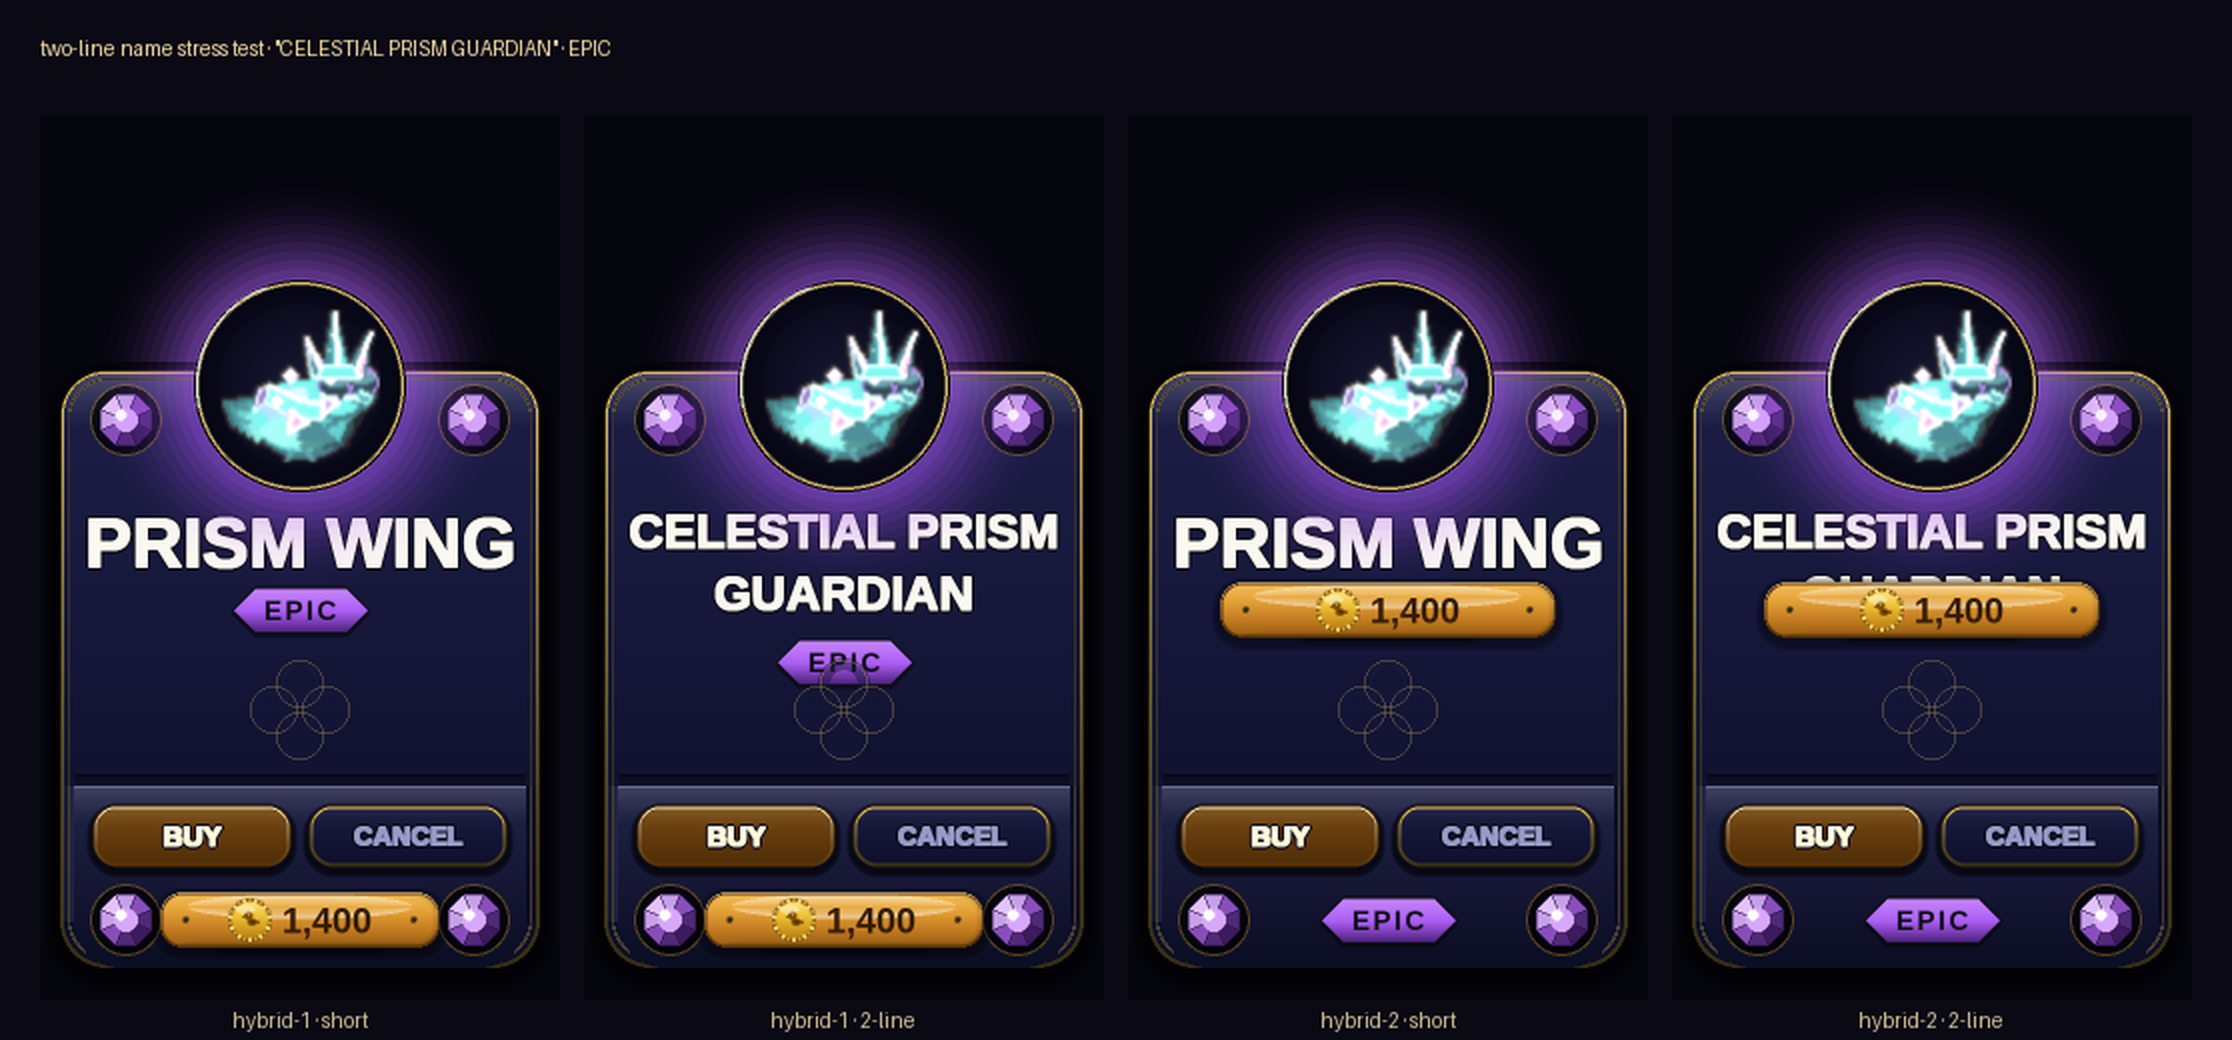
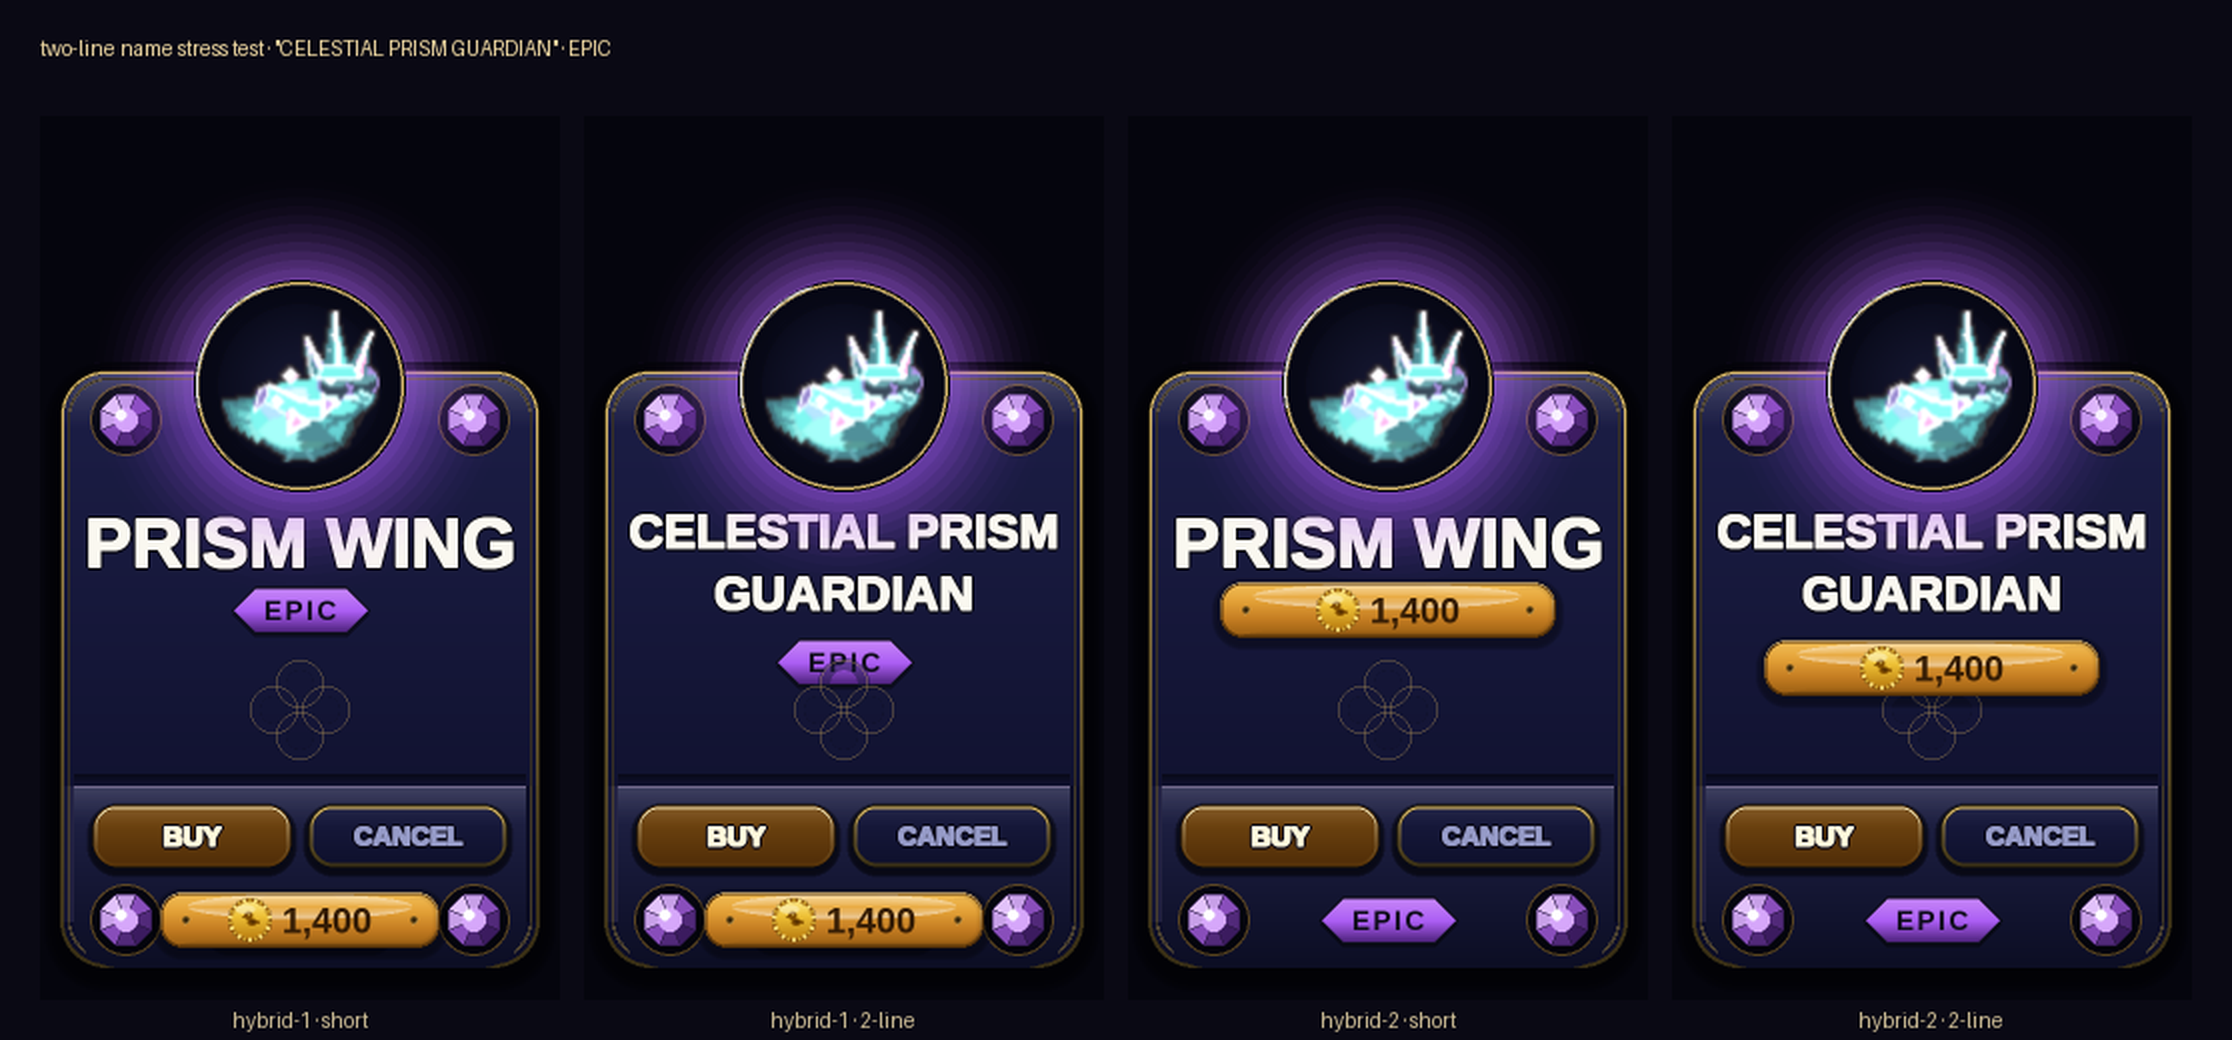
hybrid-2: push price bar below wrapped two-line names
The bullion bar now mirrors the banner's push-down maths when the item
name wraps, sliding below the second line (covering the quatrefoil is
accepted). The base draw's own chip is suppressed via exec-patch so it
no longer peeks out at 247 when the bar moves.

Claude-Session: https://claude.ai/code/session_01HZruNdjCPrRs3WrJUvXQLo

Changed region(s): [[0.7728, 0.5538, 0.9583, 0.6769]]

diff --git a/tools/_confirm_v8_premv1_hybrid2.py b/tools/_confirm_v8_premv1_hybrid2.py
@@ -13,7 +13,10 @@ Grafts:
 """
 import os
 import sys
+import re
 import math
+import inspect
+import textwrap
 
 os.environ.setdefault("SDL_VIDEODRIVER", "dummy")
 os.environ.setdefault("SDL_AUDIODRIVER", "dummy")
@@ -41,6 +44,7 @@ sc.gloss_sweep = _safe_gloss
 
 import game.store_data as store_data
 import game.store_catalog as store_catalog
+import game.store as store_mod
 from game.store import StoreScene, _confirm_tier_banner
 from game.store_cards import (m, SS, font, vgrad_stops, bevel_rim, top_sheen,
                               drop_shadow, coin_glyph, plain_text,
@@ -66,7 +70,24 @@ Q_DEEP = (22, 24, 56)
 AMBER_GLINT = (200, 165, 90)
 
 
+_DRAW_FN = [None]
+
+
+def _patched_draw_confirm():
+    """Base draw with its own price chip suppressed — the bullion bar overlay
+    owns the price now, and it moves with the wrapped name while the base chip
+    would stay pinned at 247 and peek out from underneath."""
+    src = textwrap.dedent(inspect.getsource(StoreScene._draw_confirm))
+    src, n = re.subn(r"_chip\(m\(CX\), m\(CHIP_CY\)\)", "pass", src)
+    assert n == 1, f"chip suppression patch failed: {n}"
+    ns = {}
+    exec(compile(src, "<hybrid2_draw_confirm>", "exec"), store_mod.__dict__, ns)
+    return ns["_draw_confirm"]
+
+
 def render_base(tier):
+    if _DRAW_FN[0] is None:
+        _DRAW_FN[0] = _patched_draw_confirm()
     sid = SIDS[tier]
 
     class _Stub:
@@ -81,7 +102,7 @@ def render_base(tier):
 
     surf = pygame.Surface((360, 640))
     surf.fill((8, 8, 20))
-    StoreScene._draw_confirm(_Stub(), surf)
+    _DRAW_FN[0](_Stub(), surf)
     return surf.subsurface(pygame.Rect(50, 40, POP_W, POP_H)).copy()
 
 
@@ -118,10 +139,36 @@ def overlay_quatrefoil(ov):
     ov.blit(layer, (0, 0))
 
 
-def overlay_bullion_chip(ov, price):
+def _chip_cy(tier):
+    """Mirror the base draw's two-line name maths: when the name wraps, push
+    the price bar below the second line exactly the way the banner is pushed —
+    covering the quatrefoil is accepted in that case."""
+    name = NAMES[tier]
+    fs = 45
+    f = sc.font(fs)
+    mw = m(240 - 20)
+    while sc._glyph_base(name, f, 0).get_width() > mw and fs > 24:
+        fs -= 1
+        f = sc.font(fs)
+    if sc._glyph_base(name, f, 0).get_width() <= mw:
+        return CHIP_CY
+    words = name.split()
+    best = max(1, len(words) // 2)
+    for i in range(1, len(words)):
+        a, b = " ".join(words[:i]), " ".join(words[i:])
+        if max(sc._glyph_base(a, f, 0).get_width(),
+               sc._glyph_base(b, f, 0).get_width()) <= mw:
+            best = i
+    fh = f.get_height()
+    cy1 = m(135 + 53) + m(6) + fh // 2
+    cy2 = cy1 + int(fh * 1.15)
+    return max(CHIP_CY, (cy2 + fh // 2) // SS + 10 + 14)
+
+
+def overlay_bullion_chip(ov, price, cy=CHIP_CY):
     txt = f"{price:,}"
     r = pygame.Rect(0, 0, m(168), m(28))
-    r.center = (m(CX), m(CHIP_CY))
+    r.center = (m(CX), m(cy))
     chip_body_stops(ov, r, m(11), GOLD_A_STOPS, GOLD_A_RIM_DARK,
                     GOLD_A_RIM_BRIGHT, gloss=120)
 
@@ -131,13 +178,13 @@ def overlay_bullion_chip(ov, price):
     coin_d, gap = m(22), m(5)
     group_w = coin_d + gap + bw
     left = m(CX) - group_w // 2
-    coin_glyph(ov, left + coin_d // 2, m(CHIP_CY), m(11))
+    coin_glyph(ov, left + coin_d // 2, m(cy), m(11))
     plain_text(ov, txt, num_font,
-               (left + coin_d + gap + bw // 2, m(CHIP_CY)), GOLD_A_NUM,
+               (left + coin_d + gap + bw // 2, m(cy)), GOLD_A_NUM,
                shadow_a=0, weight=m(0.7))
 
     for bx in (r.left + m(13), r.right - m(13)):
-        _bolt_dot(ov, bx, m(CHIP_CY))
+        _bolt_dot(ov, bx, m(cy))
 
 
 def _bolt_dot(ov, bx, by):
@@ -157,7 +204,7 @@ def render_popup(tier):
     ov = pygame.Surface((POP_W * SS, POP_H * SS), pygame.SRCALPHA)
     overlay_quatrefoil(ov)
     overlay_buttons(ov)
-    overlay_bullion_chip(ov, PRICES[tier])
+    overlay_bullion_chip(ov, PRICES[tier], _chip_cy(tier))
     # The live draw buries the banner under the shelf at Y_BANNER=402, so the
     # visible banner is re-drawn here on top; 140 keeps its tips clear of the
     # flanking bottom gems.
